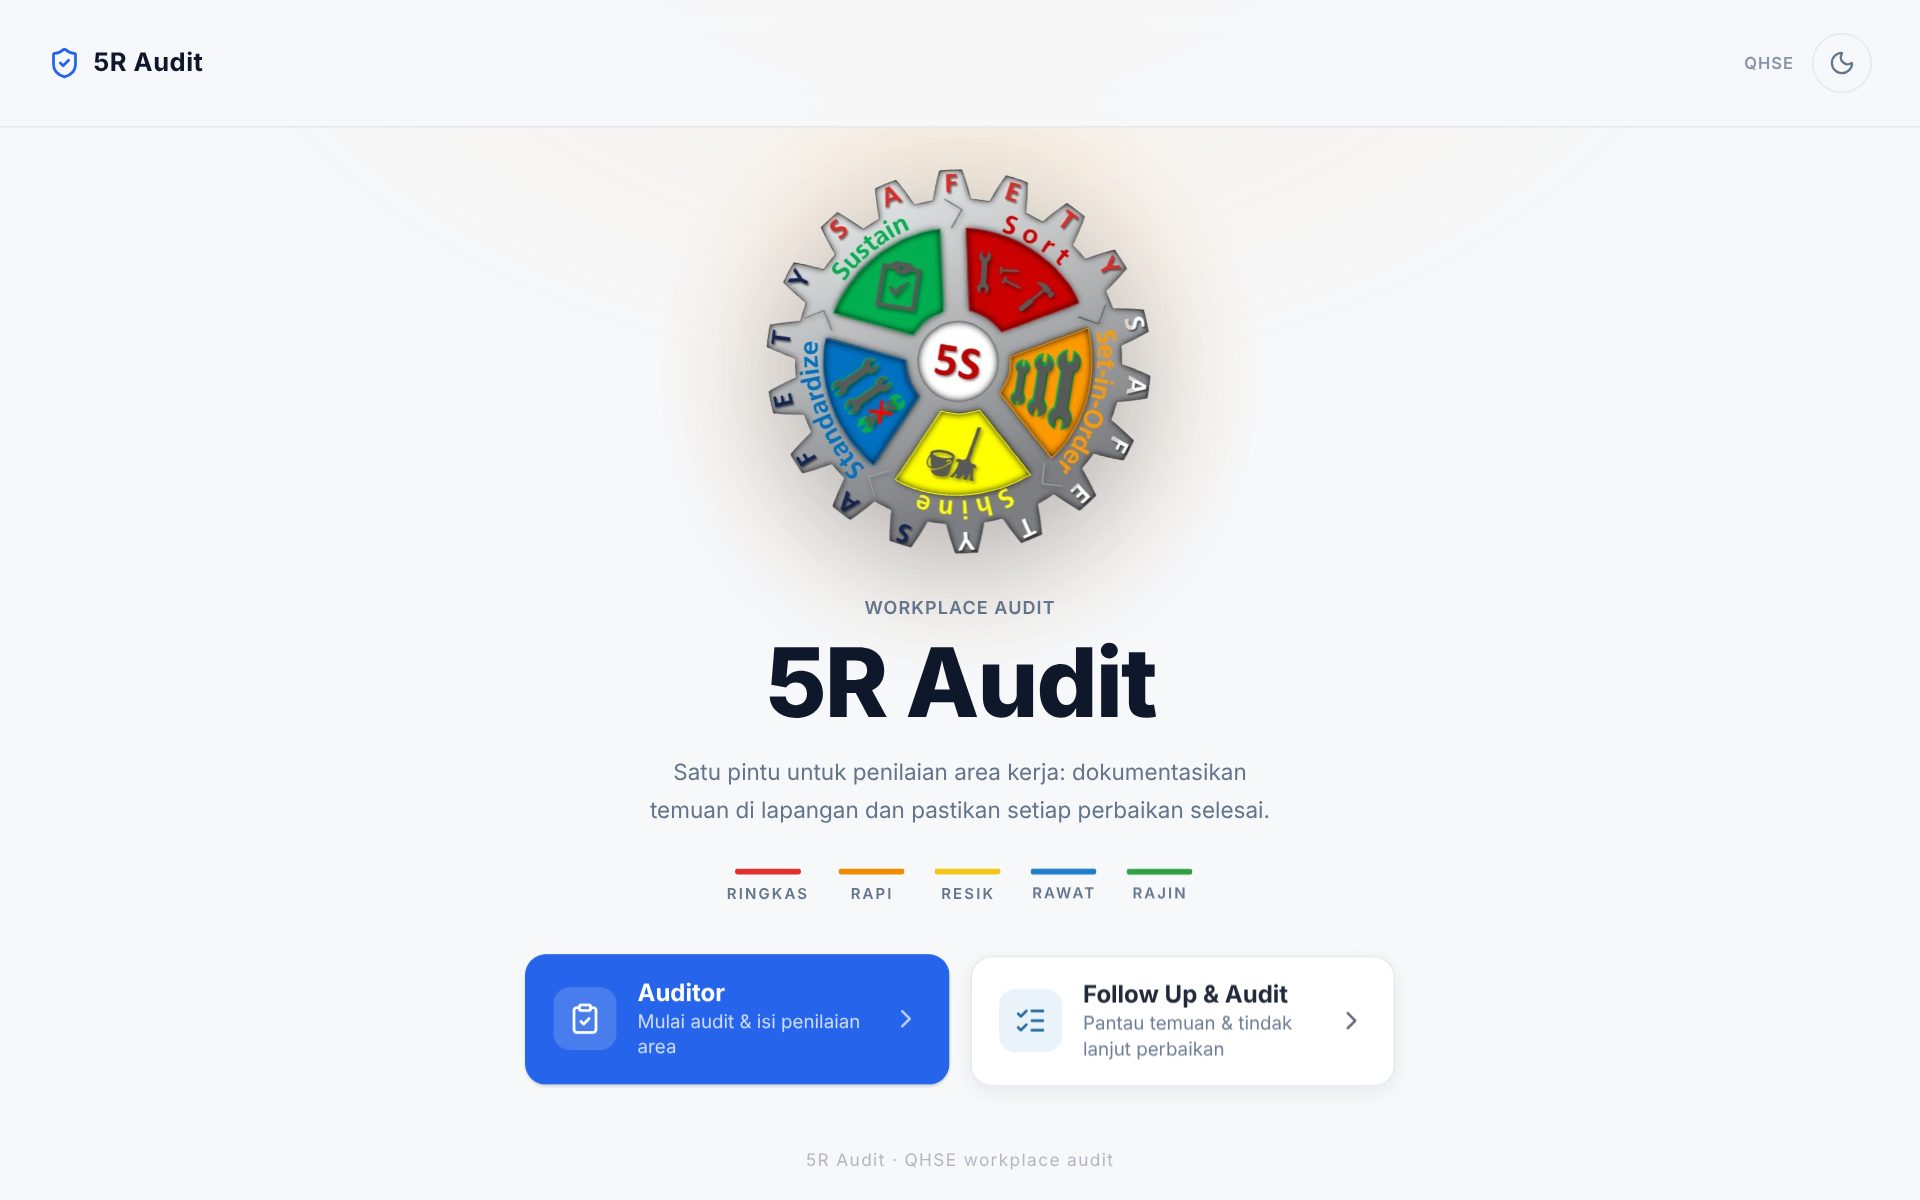
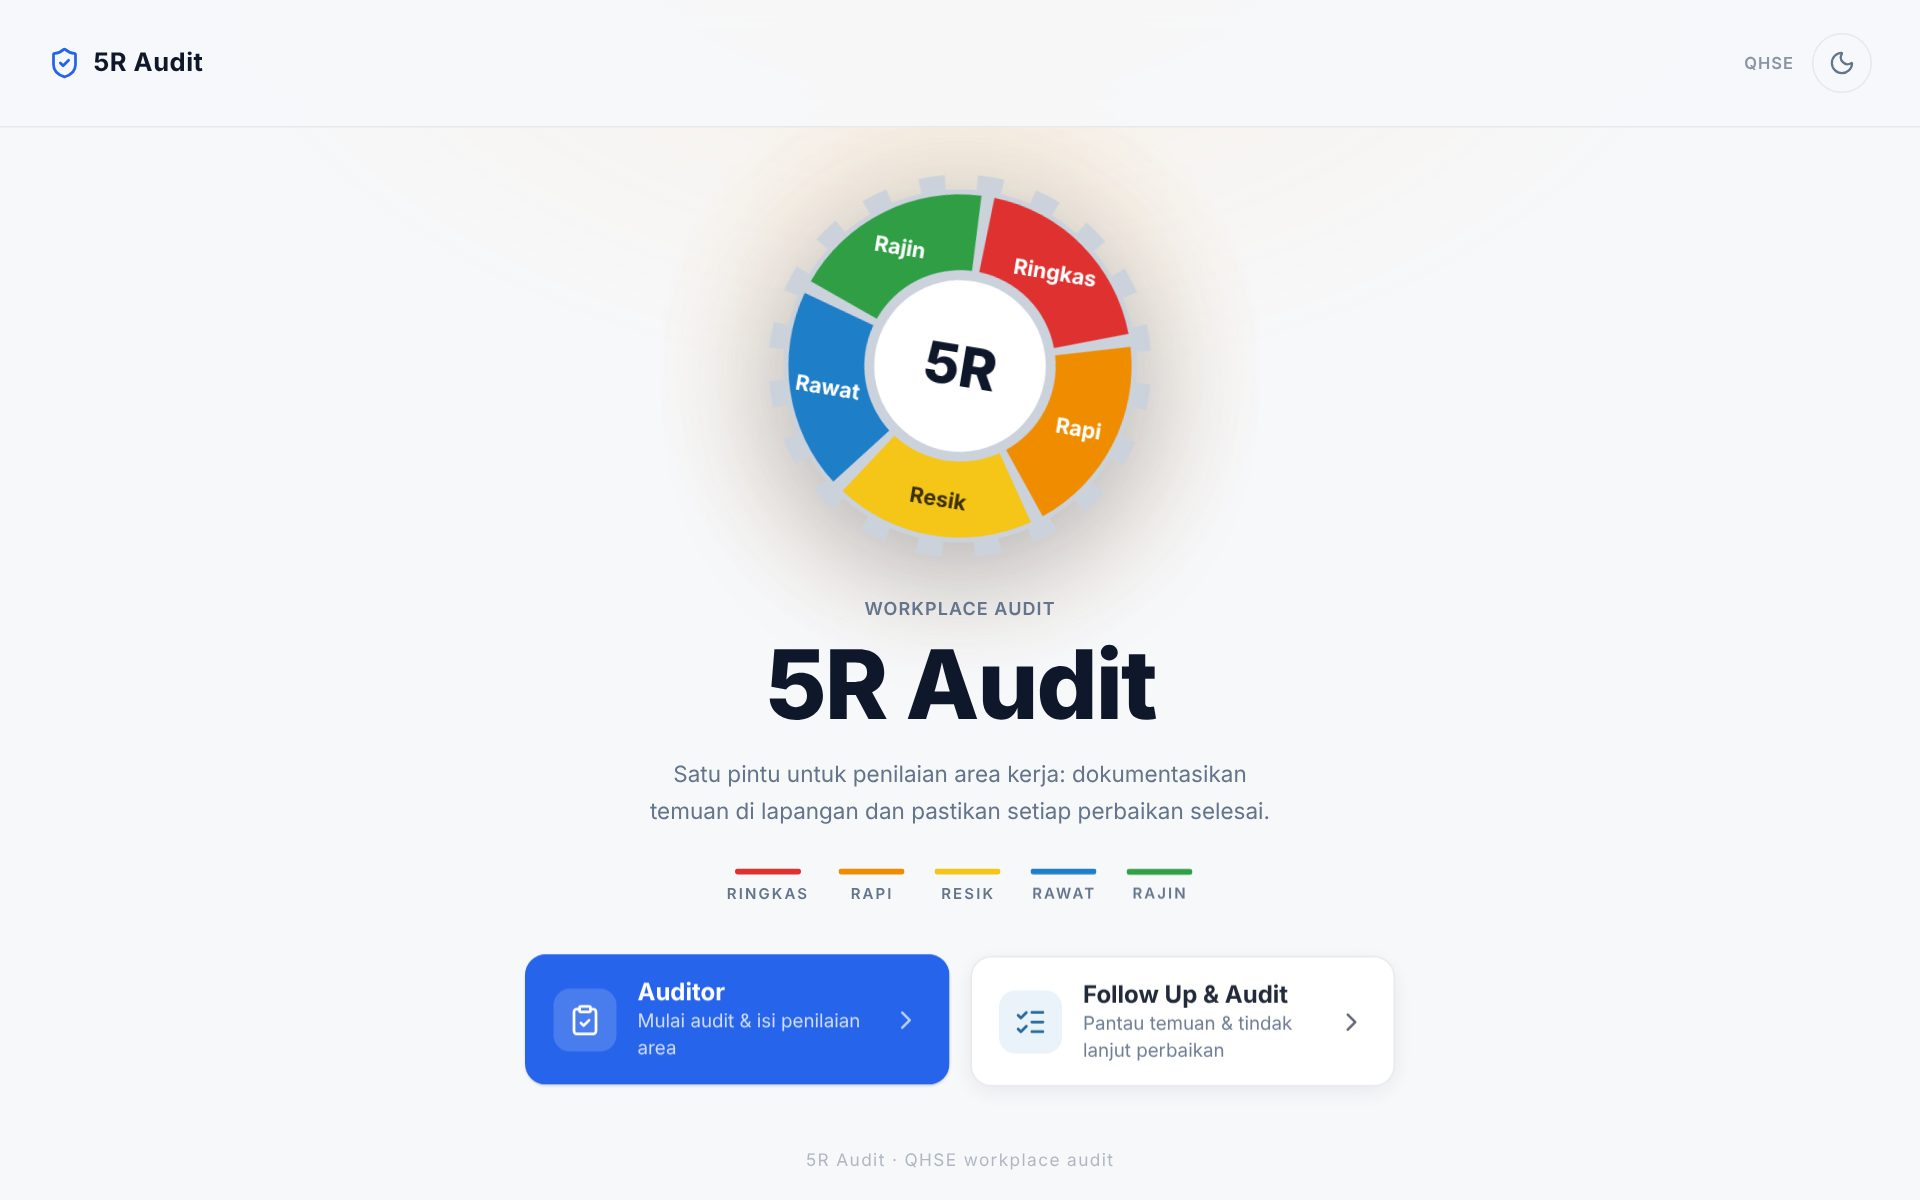
chore: replace remaining environment-specific details with neutral placeholders
- Use generic SharePoint site paths in every example config and site
  constant (/sites/workplace-audit, /sites/learning, /sites/fleet,
  /sites/supply-chain, /sites/hr) and a placeholder connection ID.
- Refer to a generic Learning & Development team in TCCD copy.
- Replace the 5S raster artwork with an original 5R wheel SVG.
- Drop references to working notes that are not part of the repository
  from code comments, and reword README and .gitignore notes.

diff --git a/apps/5r-audit/vite.config.ts b/apps/5r-audit/vite.config.ts
@@ -5,10 +5,10 @@ import { powerApps } from '@microsoft/power-apps-vite/plugin'
 export default defineConfig({
   plugins: [react(), powerApps()],
   build: {
-    // Inline SEMUA aset (logo PNG) sebagai data URI base64. `power-apps push`
+    // Inline semua aset gambar sebagai data URI. `power-apps push`
     // merusak file biner terpisah saat upload (sama seperti CreateFile);
     // menanamkannya sebagai teks di bundle membuat logo ikut jalur teks yang
-    // ter-upload utuh. Batas > 400KB agar 5r-wheel.svg (355KB) ikut ter-inline.
+    // ter-upload utuh. Batas dibuat longgar agar gambar yang lebih besar ikut ter-inline.
     assetsInlineLimit: 512000,
   },
 })

diff --git a/apps/5r-audit/src/LandingPage.tsx b/apps/5r-audit/src/LandingPage.tsx
@@ -48,7 +48,7 @@ export function LandingPage({ theme, onToggleTheme, onOpenAuditor, onOpenFollowU
           <span className="lp-mote" aria-hidden="true" />
           <span className="lp-mote" aria-hidden="true" />
           <div className="lp-gear-wrap">
-            <img className="lp-gear" src={gearLogo} alt="Logo 5S — Sort, Set-in-Order, Shine, Standardize, Sustain" />
+            <img className="lp-gear" src={gearLogo} alt="Roda 5R: Ringkas, Rapi, Resik, Rawat, Rajin" />
           </div>
         </div>
 
